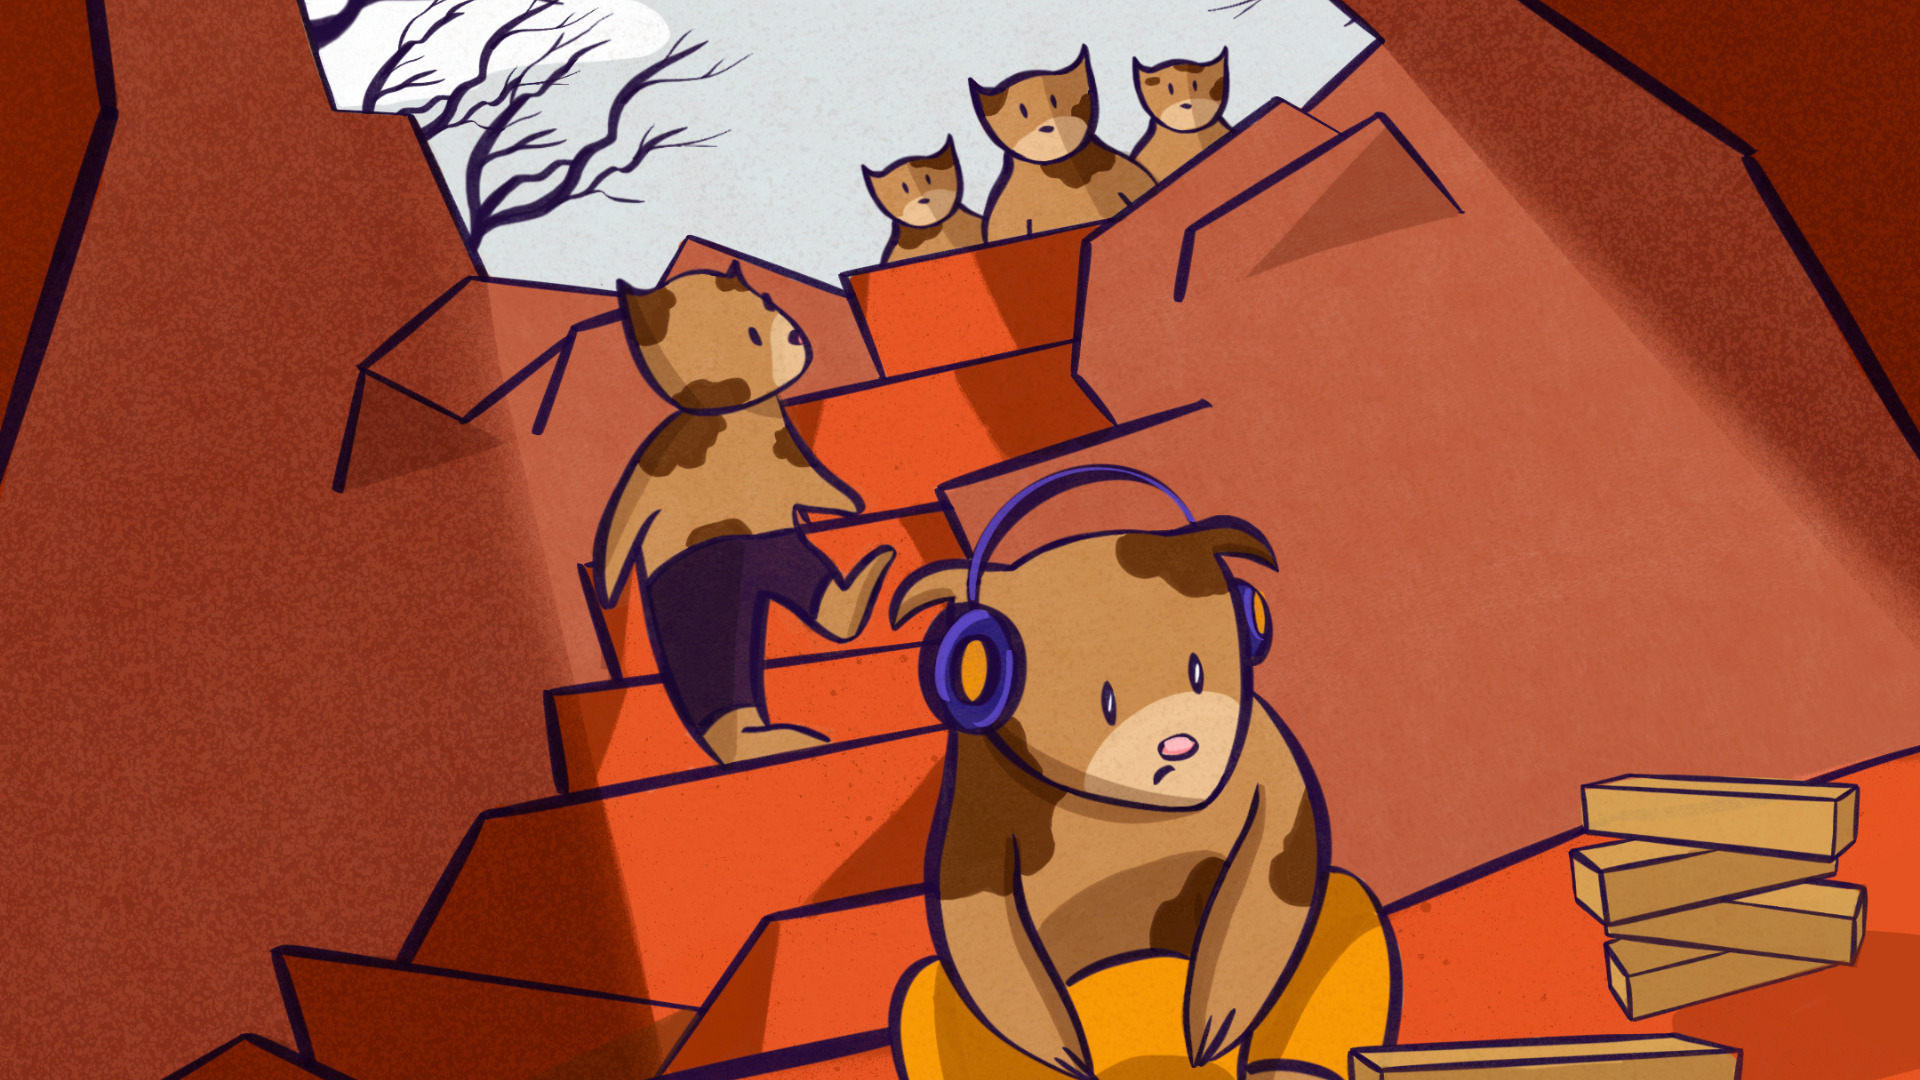
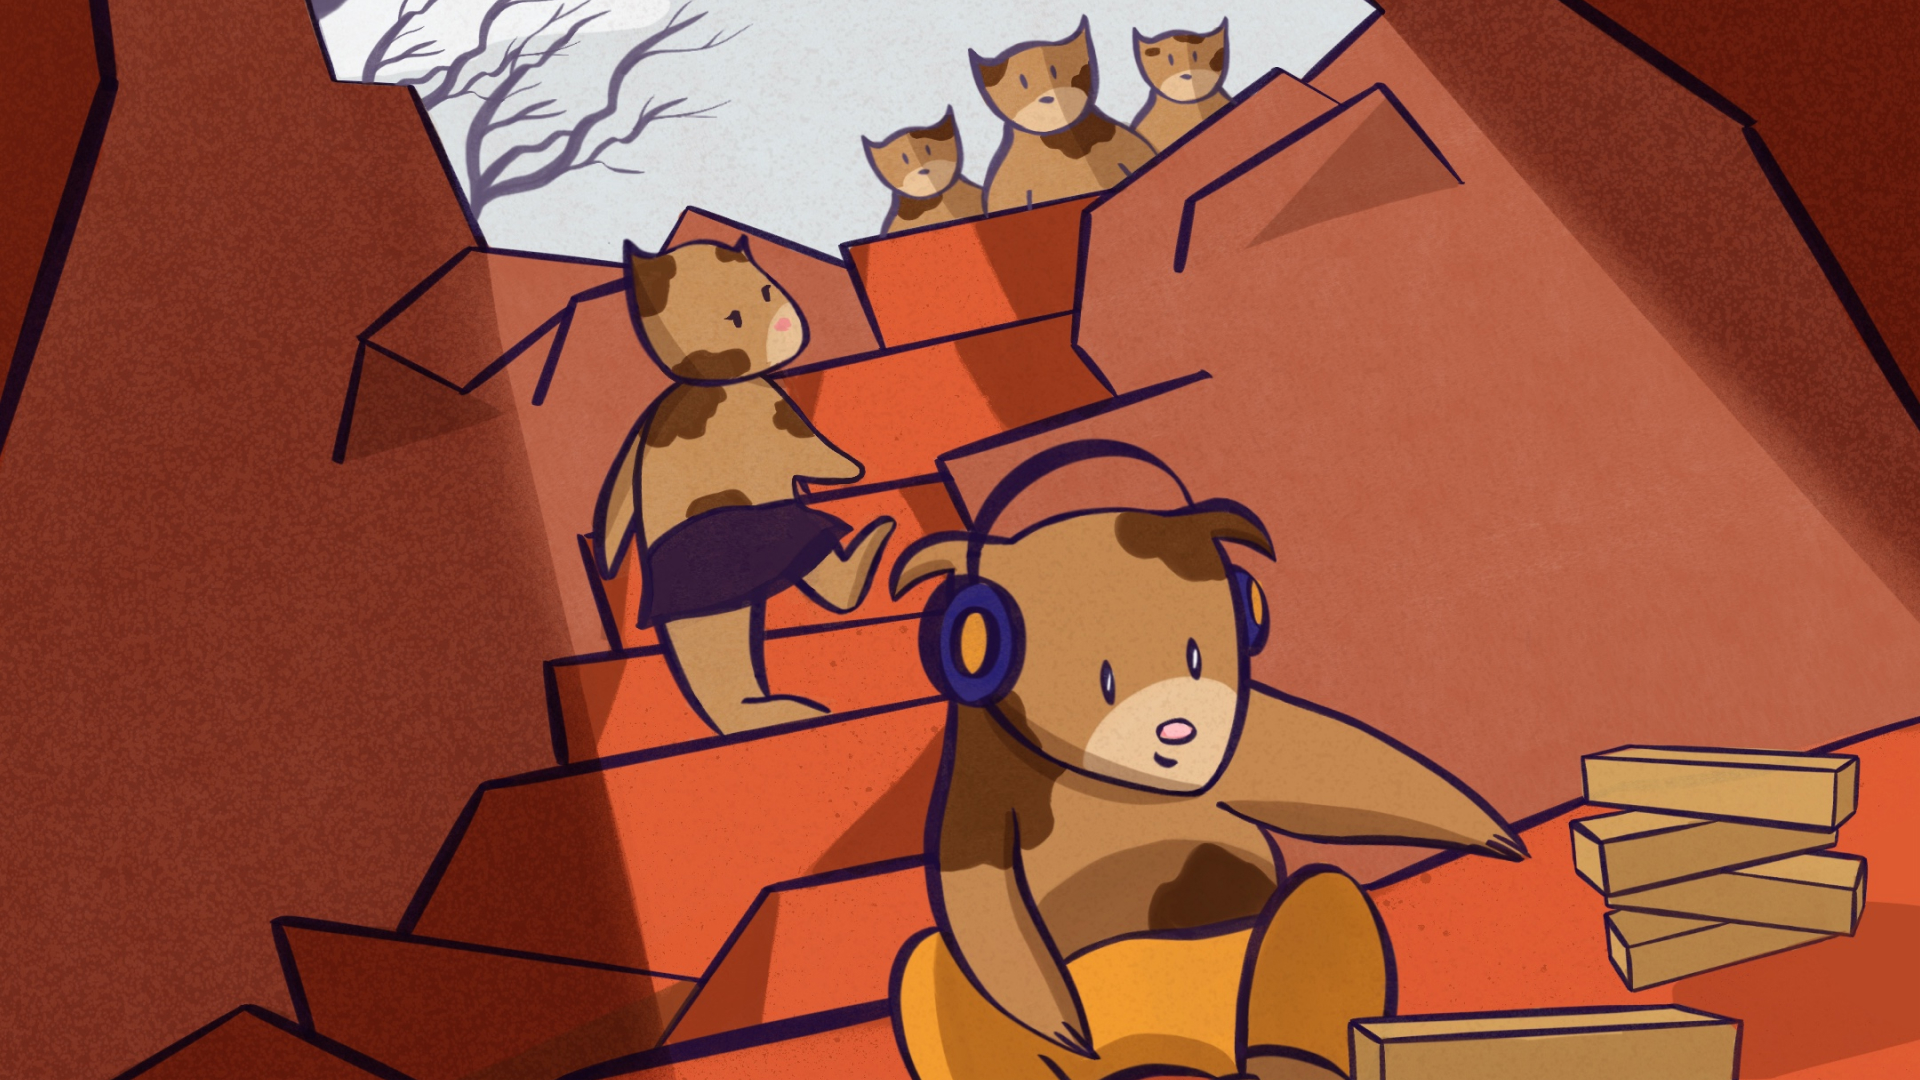
updates

diff --git a/project-2.html b/project-2.html
@@ -25,7 +25,12 @@
       <div class="project-info">
         <h1 class="project-title">The AuDHD Wombat</h1>
         <p class="project-description"> 
-          The AUDHD Wombat is a character design concept that is currently underdevelopment. This project is inspired by the neurodivergent kids I taught as a former art instructor for students on the spectrum. It explores many's first experience of ableism, which starts in the home. </p>
+          The AuDHD Wombat is a 2D character design concept that is inspired by the neurodivergent children I taught as a former art instructor. It explores many neurodivergent people's first experience of ableism, which starts early in the home.</p>
+          <p class="project-description"> 
+            This character began with an ink blot. I saw an animal wearing headphones, which reminded me of my students who would wear noise-cancelling headphones when they were overstimulated. The character sheet consists of poses and expressions based on my students' mannerisms. </p>
+            <p class="project-description"> 
+              The final pose includes the character wearing a weapon shaped like a fidget spinner, a toy that many neurodivergent people love. The final illustration is illustrated in a cartoonish style that would appeal to children.
+          </p>
       </div>
       <ul class="project-navigation">
         <li class="arrow"><a href="project-1.html" class="navigation-arrow"><i class="fas fa-arrow-left fa-2x"></i></a>
@@ -37,14 +42,51 @@
       <div class="project-image"><img src="assets/project-photos/tin-raganit-digital-illustration-cropped-eli-the-neurodivergent-wombat.jpg"
         />
       </div>
+      <div class="project-image"><img src="assets/project-photos/audhd-wombat-ink-blot.jpg"
+        />
+      </div>
+      <div class="project-image"><img src="assets/project-photos/audhd-wombat-sheet.jpg"
+        />
+      </div>
+      <div class="project-image"><img src="assets/project-photos/audhd-wombat-sheet-final-pose.jpg"
+        />
+      </div>
+      <div class="project-image"><img src="assets/project-photos/tin-raganit-digital-illustration-full-eli-the-neurodivergent-wombat.jpg"
+        />
+      </div>
       
     </main>
   </div>
   <ul class="global-footer">
-      </li>
-      <li class="footer-item-4">
-        <p class="fineprint">&copy; 2024-2025. Hand crafted with <span class="heart">❤</span> by Tin.</p>
-      </li>
+    <li class="footer-item-1">
+      <h2>Education</h2>
+      <ul class="education-list">
+        <li class="education-item">
+        <p>IDEA School of Design 2025 | Bachelor of Design in Visual Communication</p>
+        </li>
+    <li class="footer-item-2">
+      <h2>Contact &amp; Social</h2>
+      <ul class="socials-list">
+        <li class="social-item">
+          <a href="mailto:tinragstudio@gmail.com">tinragstudio@gmail.com</a>
+        </li>
+        <li class="social-item">
+          <a href="https://www.instagram.com/tinliketincan/">@tinliketincan</a>
+        </li>
+        <li class="social-item">
+          <a href="https://www.linkedin.com/in/tinraganit1999/">LinkedIn</a>
+        </li>
+      </ul>
+   
+      <div>
+    <div class="holding-page-footer">
+  </ul>
+  <p class="copyright">
+    &copy; 2024-2025. Hand crafted with <span class="heart">❤</span> by
+    Tin.
+  </p>
+</div>
+
 
   <script type="text/javascript">
     myID = document.getElementById("myID");

diff --git a/project-5.html b/project-5.html
@@ -35,14 +35,14 @@
     </aside>
     <main class="project-details">
       <div class="project-image">
-        <img src="assets/project-photos/sports-spot-2.jpg"
+        <img src="assets/project-photos/sports-spot.jpg"
         width="1500"
         height="1920"
         alt="student newspaper spread, editorial illustrations"
       />
       </div>
       <div class="project-image">
-        <img src="assets/project-photos/drugs-spot-2.jpg"
+        <img src="assets/project-photos/drugs-spot.jpg"
         width="1500"
         height="1920"
         alt="student newspaper spread, editorial illustrations"

diff --git a/work.html b/work.html
@@ -107,7 +107,7 @@
                 class="rounded-corners"
               />
             </figure>
-            <a href="404.html">
+            <a href="project-2.html">
               <div class="overlay">
                 <h1 class="overlay-title">The AuDHD Wombat</h1>
                 <h4 class="overlay-description">Character Design</h4>
